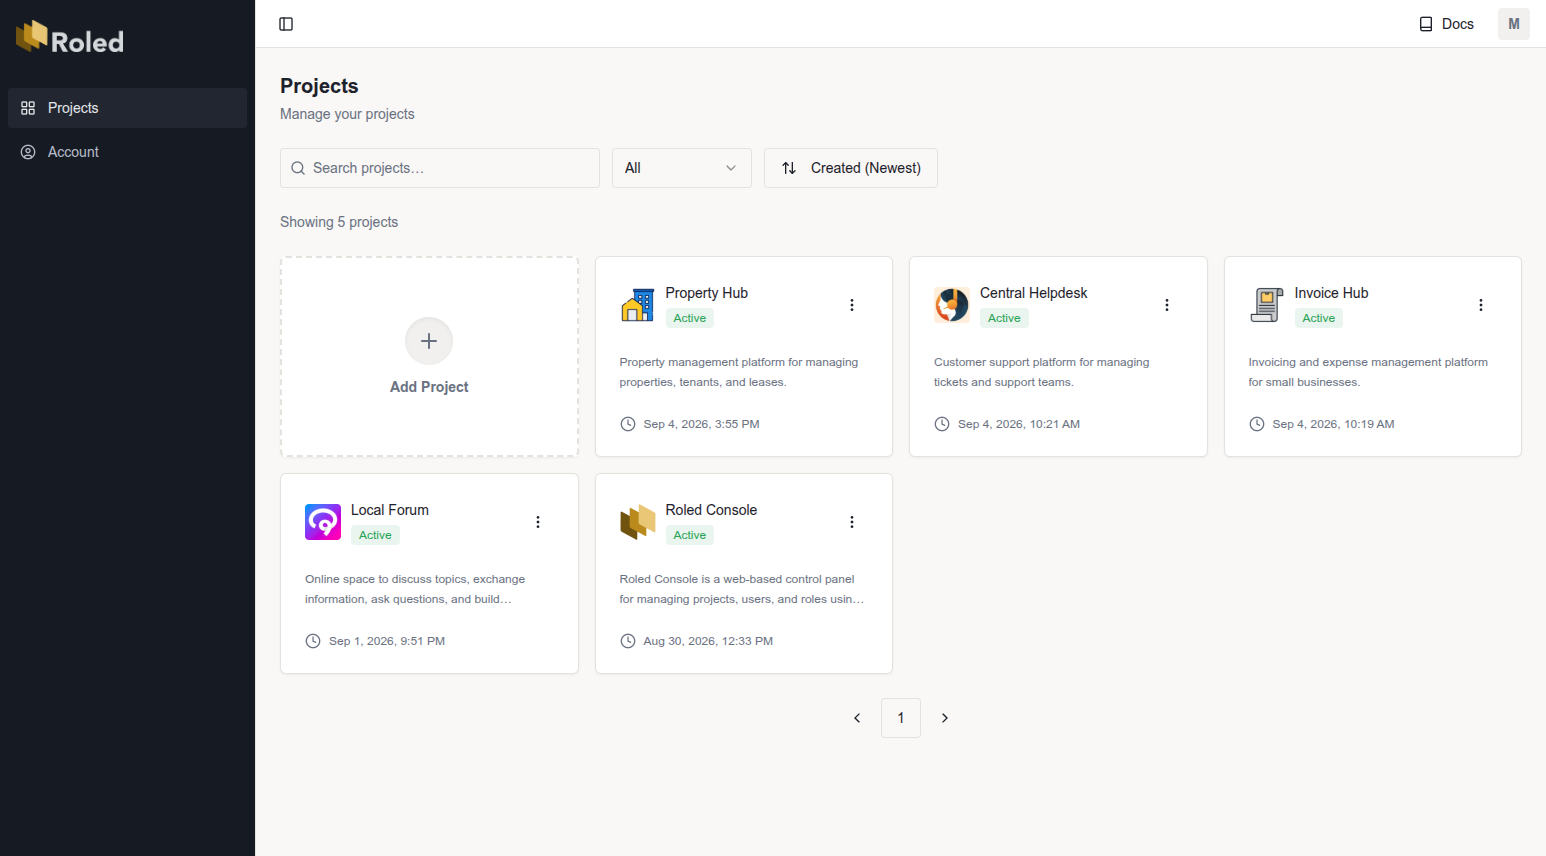
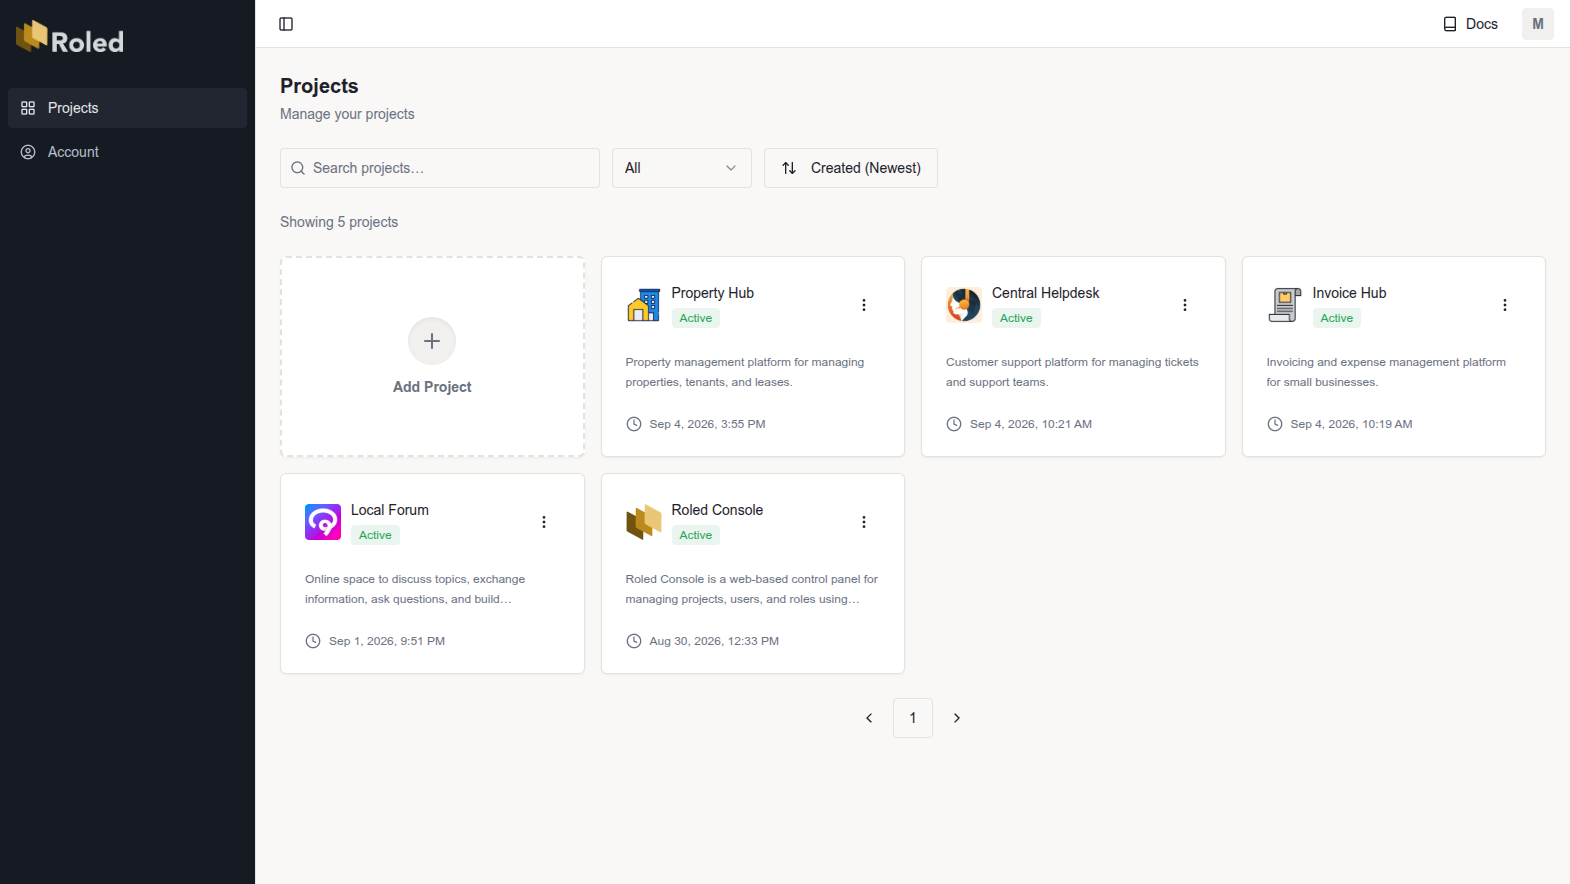
docs: update README documentation and project branding assets

diff --git a/README.md b/README.md
@@ -134,9 +134,9 @@ Here are some screenshots of the Roled Console for you to take a look at so you 
       Configure authentication flows, default sign-up roles, and security policies.
     </td>
     <td align="left" valign="top" width="50%">
-      <img src="docs/images/signin.png" alt="Sign In Page" height="200" /><br/>
-      <strong>Sign In Page</strong><br/>
-      Clean sign-in and authentication screen for your project users.
+      <img src="docs/images/project-branding.png" alt="Project Branding" height="200" /><br/>
+      <strong>Project Branding</strong><br/>
+      Customize your project's authentication pages with your own brand.
     </td>
   </tr>
 </table>
@@ -160,11 +160,11 @@ Roled is open source and contributions are welcome! The project is under active 
 
 ### Upcoming Features
 
-- **Official SDKs**: Faster integration with Roled for various programming languages.
-- **More social logins**: ~~Google~~, Microsoft, GitHub, Facebook, and more.
-- **Audit logs**: Track and monitor all your projects' user activities.
-- **Login layouts**: Ready-to-use login page templates for quick project integration.
-- **User groups**: Define reusable sets of default users for quick assignment to new projects.
-- **Users view**: Inverse management view, assign a user to multiple projects from a central user list without navigating project-by-project.
-- And many more!
-
+- [ ] **Official SDKs**: Faster integration with Roled for various programming languages.
+- [x] **Google social login**: Seamless authentication using Google accounts.
+- [ ] **More social logins**: Microsoft, GitHub, Facebook, and more.
+- [ ] **Audit logs**: Track and monitor all your projects' user activities.
+- [x] **Customizable login page**: Customize project's login page appearance and theme.
+- [ ] **User groups**: Define reusable sets of default users for quick assignment to new projects.
+- [ ] **Users view**: Inverse management view, assign a user to multiple projects from a central user list without navigating project-by-project.
+- [ ] And many more!
